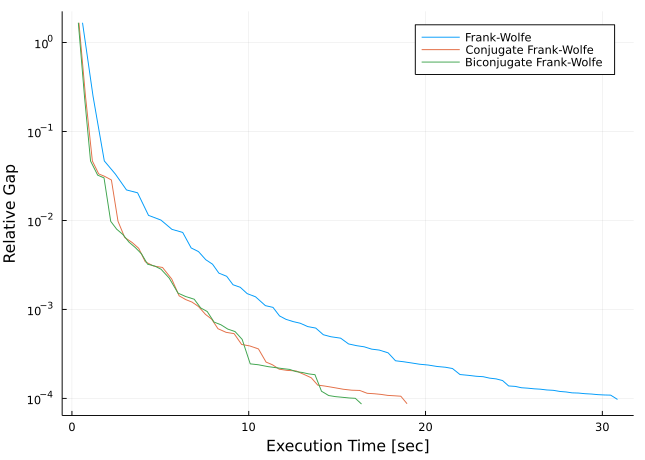
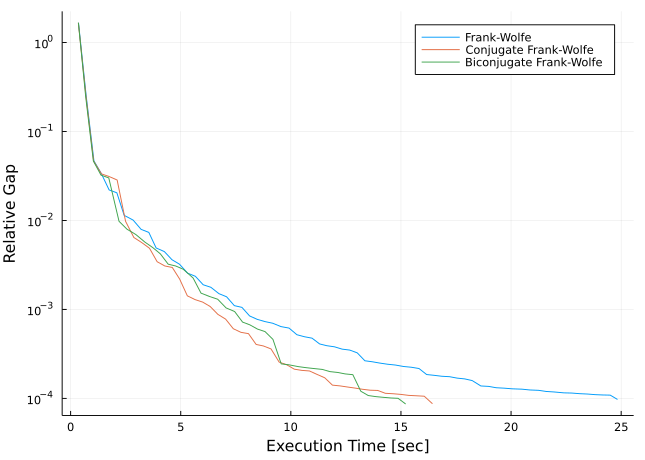
Update README

diff --git a/README.md b/README.md
@@ -4,7 +4,8 @@ TrafficAssig.jl
 TrafficAssig is a Julia package for…
 
 1.  Load [Transportation
-    Networks](https://github.com/bstabler/TransportationNetworks) data.
+    Networks](https://github.com/bstabler/TransportationNetworks) data
+    or construct traffic data from data frames.
 2.  Traffic assignment with User Equilibrium.
 
 ## Examples
@@ -18,27 +19,23 @@ assign_traffic(tntp)
 
     Start Execution
 
-    Iteration:       1, Objective: 1291920.700626, Relative-Gap:      0.025318, Execution-Time:      0.289000
+    Iteration:       1, Objective: 1291920.700626, Relative-Gap:      0.025318, Execution-Time:      0.066000
+    Iteration:       2, Objective: 1287896.059193, Relative-Gap:      0.002939, Execution-Time:      0.117000
+    Iteration:       3, Objective: 1287174.480144, Relative-Gap:      0.002377, Execution-Time:      0.149000
 
-    Iteration:       2, Objective: 1287896.059193, Relative-Gap:      0.002939, Execution-Time:      0.817000
-    Iteration:       3, Objective: 1287174.480144, Relative-Gap:      0.002377, Execution-Time:      0.879000
+    Iteration:       4, Objective: 1286261.622092, Relative-Gap:      0.001158, Execution-Time:      0.193000
+    Iteration:       5, Objective: 1286219.626421, Relative-Gap:      0.000541, Execution-Time:      0.217000
+    Iteration:       6, Objective: 1286196.673562, Relative-Gap:      0.000523, Execution-Time:      0.267000
 
-    Iteration:       4, Objective: 1286261.622092, Relative-Gap:      0.001158, Execution-Time:      0.943000
+    Iteration:       7, Objective: 1286137.001106, Relative-Gap:      0.000477, Execution-Time:      0.311000
+    Iteration:       8, Objective: 1286082.018464, Relative-Gap:      0.000162, Execution-Time:      0.345000
+    Iteration:       9, Objective: 1286073.753091, Relative-Gap:      0.000145, Execution-Time:      0.389000
 
-    Iteration:       5, Objective: 1286219.626421, Relative-Gap:      0.000541, Execution-Time:      1.179000
-    Iteration:       6, Objective: 1286196.673562, Relative-Gap:      0.000523, Execution-Time:      1.241000
+    Iteration:      10, Objective: 1286053.650219, Relative-Gap:      0.000091, Execution-Time:      0.417000
 
-    Iteration:       7, Objective: 1286137.001106, Relative-Gap:      0.000477, Execution-Time:      1.304000
-
-    Iteration:       8, Objective: 1286082.018464, Relative-Gap:      0.000162, Execution-Time:      1.351000
-    Iteration:       9, Objective: 1286073.753091, Relative-Gap:      0.000145, Execution-Time:      1.413000
-    Iteration:      10, Objective: 1286053.650219, Relative-Gap:      0.000091, Execution-Time:      1.472000
-
-    TrafficAssig.TrafficAssigResults(TrafficImpl(416, [1, 2, 3, 4, 5, 6, 7, 8, 9, 9  …  412, 412, 413, 413, 414, 414, 415, 415, 416, 416], [117, 87, 74, 233, 165, 213, 253, 411, 379, 395  …  21, 402, 21, 404, 22, 405, 22, 406, 23, 407], sparse([2, 3, 4, 5, 6, 7, 8, 9, 10, 11  …  28, 29, 30, 31, 32, 33, 34, 35, 36, 37], [1, 1, 1, 1, 1, 1, 1, 1, 1, 1  …  38, 38, 38, 38, 38, 38, 38, 38, 38, 38], [1171.2, 721.1, 1222.5, 243.4, 637.4, 682.3, 44.3, 198.6, 12.3, 35.8  …  42.1, 16.6, 128.1, 87.1, 54.0, 47.9, 234.6, 63.8, 41.3, 6.0], 416, 416), Graphs.SimpleGraphs.SimpleDiGraph{Int64}(914, [[117], [87], [74], [233], [165], [213], [253], [411], [379, 395], [338, 362]  …  [38, 53, 390, 408, 416], [211, 407, 409], [167, 408, 410], [396, 409, 411], [8, 410], [21, 402], [21, 404], [22, 405], [22, 406], [23, 407]], [[88], [62], [75], [234], [118], [166], [214], [411], [379, 395], [338, 362]  …  [38, 53, 390, 408, 416], [212, 407, 409], [168, 408, 410], [396, 409, 411], [8, 410], [21, 402], [21, 404], [22, 405], [22, 406], [23, 407]]), BPR([1.090458488, 1.090458488, 1.090458488, 1.090458488, 1.090458488, 1.090458488, 1.090458488, 1.0, 1.0, 1.0  …  1.0, 2.0, 1.0, 2.0, 1.0, 2.0, 1.0, 2.0, 1.0, 2.0], [1.090458488, 1.090458488, 1.090458488, 1.090458488, 1.090458488, 1.090458488, 1.090458488, 1.0, 1.0, 1.0  …  Inf, 2.0, Inf, 2.0, Inf, 2.0, Inf, 2.0, Inf, 2.0], [9000.0, 9000.0, 9000.0, 9000.0, 9000.0, 9000.0, 9000.0, 5400.0, 5400.0, 5400.0  …  5400.0, 5400.0, 5400.0, 5400.0, 5400.0, 5400.0, 5400.0, 5400.0, 5400.0, 5400.0], [0.15, 0.15, 0.15, 0.15, 0.15, 0.15, 0.15, 0.15, 0.15, 0.15  …  0.15, 0.15, 0.15, 0.15, 0.15, 0.15, 0.15, 0.15, 0.15, 0.15], [4.0, 4.0, 4.0, 4.0, 4.0, 4.0, 4.0, 4.0, 4.0, 4.0  …  4.0, 4.0, 4.0, 4.0, 4.0, 4.0, 4.0, 4.0, 4.0, 4.0], [0.0, 0.0, 0.0, 0.0, 0.0, 0.0, 0.0, 0.0, 0.0, 0.0  …  0.0, 0.0, 0.0, 0.0, 0.0, 0.0, 0.0, 0.0, 0.0, 0.0], [0.0, 0.0, 0.0, 0.0, 0.0, 0.0, 0.0, 0.0, 0.0, 0.0  …  0.0, 0.0, 0.0, 0.0, 0.0, 0.0, 0.0, 0.0, 0.0, 0.0], [0.0, 0.0, 0.0, 0.0, 0.0, 0.0, 0.0, 0.0, 0.0, 0.0  …  0.0, 0.0, 0.0, 0.0, 0.0, 0.0, 0.0, 0.0, 0.0, 0.0], [5280.0, 5280.0, 5280.0, 5280.0, 5280.0, 5280.0, 5280.0, 2640.0, 2640.0, 2640.0  …  2640.0, 5280.0, 2640.0, 5280.0, 2640.0, 5280.0, 2640.0, 5280.0, 2640.0, 5280.0])), [7074.9000000000015, 9662.5, 7669.000000000003, 12173.800000000005, 2586.7999999999984, 6576.600000000002, 7137.099999999999, 722.0999999999999, 1317.8581802935394, 919.6418197064601  …  564.0461563804106, 1396.5000000000005, 1495.8538436195895, 1245.3000000000004, 509.4, 619.8000000000002, 934.2, 904.6, 387.90000000000026, 1522.5000000000005], TrafficAssig.TrafficAssigLogs(1.2859360747738602e6, 1.2860536502190554e6, [1.291920700626193e6, 1.2878960591928903e6, 1.2871744801439047e6, 1.2862616220920002e6, 1.2862196264213196e6, 1.2861966735620052e6, 1.286137001106453e6, 1.2860820184640046e6, 1.286073753090791e6, 1.2860536502190554e6], [0.025317752227496094, 0.0029390953172753753, 0.002377171213677242, 0.0011579431276954597, 0.0005411847802946837, 0.0005233299127582479, 0.0004769111300320562, 0.00016164163885600162, 0.00014462122430136348, 9.14317962624003e-5], 1.659282235489e9, [0.2890000343322754, 0.8169999122619629, 0.8789999485015869, 0.9429998397827148, 1.178999900817871, 1.2409999370574951, 1.303999900817871, 1.3509998321533203, 1.4129998683929443, 1.4719998836517334]))
+    TrafficAssig.TrafficAssigResults(TrafficImpl(416, [1, 2, 3, 4, 5, 6, 7, 8, 9, 9  …  412, 412, 413, 413, 414, 414, 415, 415, 416, 416], [117, 87, 74, 233, 165, 213, 253, 411, 379, 395  …  21, 402, 21, 404, 22, 405, 22, 406, 23, 407], sparse([2, 3, 4, 5, 6, 7, 8, 9, 10, 11  …  28, 29, 30, 31, 32, 33, 34, 35, 36, 37], [1, 1, 1, 1, 1, 1, 1, 1, 1, 1  …  38, 38, 38, 38, 38, 38, 38, 38, 38, 38], [1171.2, 721.1, 1222.5, 243.4, 637.4, 682.3, 44.3, 198.6, 12.3, 35.8  …  42.1, 16.6, 128.1, 87.1, 54.0, 47.9, 234.6, 63.8, 41.3, 6.0], 416, 416), Graphs.SimpleGraphs.SimpleDiGraph{Int64}(914, [[117], [87], [74], [233], [165], [213], [253], [411], [379, 395], [338, 362]  …  [38, 53, 390, 408, 416], [211, 407, 409], [167, 408, 410], [396, 409, 411], [8, 410], [21, 402], [21, 404], [22, 405], [22, 406], [23, 407]], [[88], [62], [75], [234], [118], [166], [214], [411], [379, 395], [338, 362]  …  [38, 53, 390, 408, 416], [212, 407, 409], [168, 408, 410], [396, 409, 411], [8, 410], [21, 402], [21, 404], [22, 405], [22, 406], [23, 407]]), BPR([1.090458488, 1.090458488, 1.090458488, 1.090458488, 1.090458488, 1.090458488, 1.090458488, 1.0, 1.0, 1.0  …  1.0, 2.0, 1.0, 2.0, 1.0, 2.0, 1.0, 2.0, 1.0, 2.0], [1.090458488, 1.090458488, 1.090458488, 1.090458488, 1.090458488, 1.090458488, 1.090458488, 1.0, 1.0, 1.0  …  Inf, 2.0, Inf, 2.0, Inf, 2.0, Inf, 2.0, Inf, 2.0], [9000.0, 9000.0, 9000.0, 9000.0, 9000.0, 9000.0, 9000.0, 5400.0, 5400.0, 5400.0  …  5400.0, 5400.0, 5400.0, 5400.0, 5400.0, 5400.0, 5400.0, 5400.0, 5400.0, 5400.0], [0.15, 0.15, 0.15, 0.15, 0.15, 0.15, 0.15, 0.15, 0.15, 0.15  …  0.15, 0.15, 0.15, 0.15, 0.15, 0.15, 0.15, 0.15, 0.15, 0.15], [4.0, 4.0, 4.0, 4.0, 4.0, 4.0, 4.0, 4.0, 4.0, 4.0  …  4.0, 4.0, 4.0, 4.0, 4.0, 4.0, 4.0, 4.0, 4.0, 4.0], [0.0, 0.0, 0.0, 0.0, 0.0, 0.0, 0.0, 0.0, 0.0, 0.0  …  0.0, 0.0, 0.0, 0.0, 0.0, 0.0, 0.0, 0.0, 0.0, 0.0], [0.0, 0.0, 0.0, 0.0, 0.0, 0.0, 0.0, 0.0, 0.0, 0.0  …  0.0, 0.0, 0.0, 0.0, 0.0, 0.0, 0.0, 0.0, 0.0, 0.0], [0.0, 0.0, 0.0, 0.0, 0.0, 0.0, 0.0, 0.0, 0.0, 0.0  …  0.0, 0.0, 0.0, 0.0, 0.0, 0.0, 0.0, 0.0, 0.0, 0.0], [5280.0, 5280.0, 5280.0, 5280.0, 5280.0, 5280.0, 5280.0, 2640.0, 2640.0, 2640.0  …  2640.0, 5280.0, 2640.0, 5280.0, 2640.0, 5280.0, 2640.0, 5280.0, 2640.0, 5280.0])), [7074.9000000000015, 9662.5, 7669.000000000003, 12173.800000000005, 2586.7999999999984, 6576.600000000002, 7137.099999999999, 722.0999999999999, 1317.8581802935394, 919.6418197064601  …  564.0461563804106, 1396.5000000000005, 1495.8538436195895, 1245.3000000000004, 509.4, 619.8000000000002, 934.2, 904.6, 387.90000000000026, 1522.5000000000005], TrafficAssig.TrafficAssigLogs(1.2859360747738602e6, 1.2860536502190554e6, [1.291920700626193e6, 1.2878960591928903e6, 1.2871744801439047e6, 1.2862616220920002e6, 1.2862196264213196e6, 1.2861966735620052e6, 1.286137001106453e6, 1.2860820184640046e6, 1.286073753090791e6, 1.2860536502190554e6], [0.025317752227496094, 0.0029390953172753753, 0.002377171213677242, 0.0011579431276954597, 0.0005411847802946837, 0.0005233299127582479, 0.0004769111300320562, 0.00016164163885600162, 0.00014462122430136348, 9.14317962624003e-5], 1.65928291923e9, [0.06599998474121094, 0.11699986457824707, 0.14899992942810059, 0.19300007820129395, 0.21700000762939453, 0.2669999599456787, 0.31099987030029297, 0.3450000286102295, 0.38899993896484375, 0.41700005531311035]))
 
 ``` julia
-using Plots
-
 tntp = load_tntp("Barcelona")
 
 res_FW = assign_traffic(tntp, algorithm=FrankWolfe())
@@ -46,22 +43,6 @@ res_CFW = assign_traffic(tntp, algorithm=ConjugateFrankWolfe())
 res_BFW = assign_traffic(tntp, algorithm=BiconjugateFrankWolfe())
 ```
 
-``` julia
-plt = plot(
-    res_FW.logs.exec_time, res_FW.logs.relative_gap, 
-    yaxis=:log,
-    xlabel="Execution Time [sec]",
-    ylabel="Relative Gap",
-    label="Frank-Wolfe"
-)
-plot!(
-    plt, res_CFW.logs.exec_time, res_CFW.logs.relative_gap, 
-    label="Conjugate Frank-Wolfe"
-)
-plot!(
-    plt, res_BFW.logs.exec_time, res_BFW.logs.relative_gap, 
-    label="Biconjugate Frank-Wolfe"
-)
-```
-
 ![](README_files/figure-gfm/cell-4-output-1.png)
+
+## Comparisons
